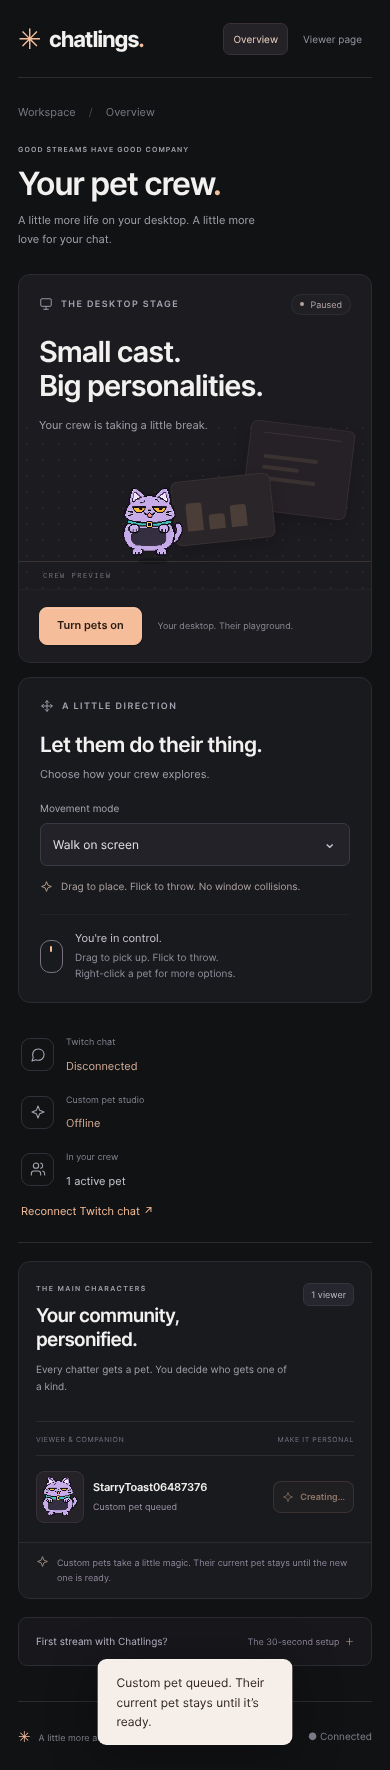
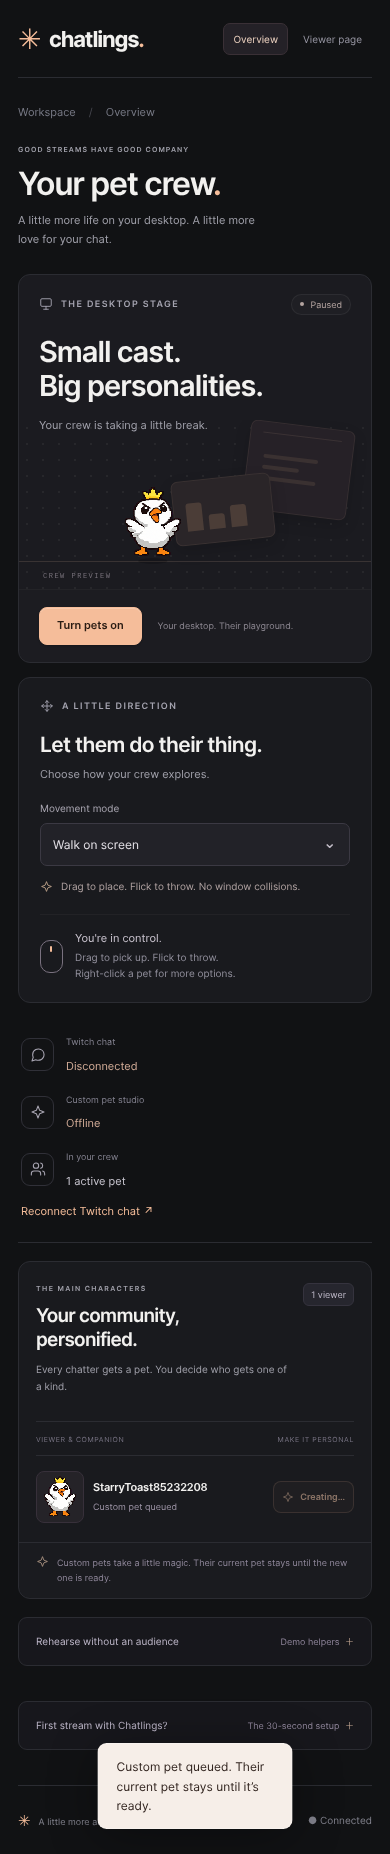
Add labeled simulated viewers and streamer rehearsal controls

diff --git a/public/app.js b/public/app.js
@@ -16,7 +16,7 @@ function drawScene(canvas,t,hero=false){
  if(!canvas)return;const w=canvas.clientWidth,h=canvas.clientHeight;if(!w||!h)return;
  if(canvas.width!==w||canvas.height!==h){canvas.width=w;canvas.height=h;}
  const c=canvas.getContext('2d');c.clearRect(0,0,w,h);c.imageSmoothingEnabled=false;
- const crew=hero?[]:world.players.filter(p=>!p.simulated&&(!p.id.startsWith('demo-')||meta.demo)).slice(0,5);
+ const crew=hero?[]:world.players.filter(p=>!p.id.startsWith('demo-')||meta.demo).slice(0,5);
  const assets=crew.length?crew.map(previewAsset):['/pets/blob-ross.png','/pets/toast-panic.png','/pets/buffer-cat.png'];
  const reduced=matchMedia('(prefers-reduced-motion: reduce)').matches;
  for(let i=0;i<assets.length;i++){
@@ -38,12 +38,12 @@ function draw(t){
 }
 function renderRoster(){const players=world.players.filter(p=>!p.simulated&&!p.id.startsWith('demo-'));
  // Demo mode may be used only on an isolated local development server.
- const visible=meta.demo?world.players.filter(p=>!p.simulated):players;
- $('viewerCount').textContent=visible.length+' viewer'+(visible.length===1?'':'s');$('activeCount').textContent=visible.length+' active pet'+(visible.length===1?'':'s');
+ const visible=world.players.filter(p=>!p.id.startsWith('demo-')||meta.demo);const simulated=visible.filter(p=>p.simulated).length;const real=visible.length-simulated;
+ $('viewerCount').textContent=real+' viewer'+(real===1?'':'s')+(simulated?' · '+simulated+' demo':'');$('demoStatus').textContent=simulated?simulated+' simulated viewers. Real viewers stay untouched.':'Demo pets are labeled SIM on your desktop.';$('demoMoments').disabled=$('clearDemoPets').disabled=!simulated;$('activeCount').textContent=visible.length+' active pet'+(visible.length===1?'':'s');
  for(const [id,row]of rows)if(!visible.some(p=>p.id===id)){row.el.remove();rows.delete(id);}
  if(!visible.length){if(!$('roster').querySelector('.empty')){const p=document.createElement('p');p.className='empty';p.textContent='Your first chatter is your first pet. Ask your community to say hello in Twitch chat.';$('roster').append(p);}}else $('roster').querySelector('.empty')?.remove();
  const liveAssets=new Set(visible.length?[]:['/pets/blob-ross.png','/pets/toast-panic.png','/pets/buffer-cat.png']);
- for(const p of visible){let row=rows.get(p.id);if(!row){const el=document.createElement('div');el.className='viewer-row';const person=document.createElement('div');person.className='person';const canvas=document.createElement('canvas');canvas.width=48;canvas.height=52;canvas.setAttribute('aria-hidden','true');const info=document.createElement('div'),name=document.createElement('strong'),detail=document.createElement('small'),button=document.createElement('button');info.append(name,detail);person.append(canvas,info);button.className='button';button.onclick=()=>commission(p.id);el.append(person,button);$('roster').append(el);row={el,canvas,name,detail,button};rows.set(p.id,row);}row.name.textContent=p.name;const jobs=world.skins.filter(j=>j.userId===p.id),latest=jobs.at(-1),ready=jobs.filter(j=>j.status==='ready').at(-1),waiting=['queued','generating'].includes(latest?.status);row.asset=ready?.asset||'/pets/'+ids[p.appearance.seed%5]+'.png';liveAssets.add(row.asset);row.detail.textContent=latest?.status==='queued'?'Custom pet queued':latest?.status==='generating'?'Codex is creating this pet…':latest?.status==='failed'?'Creation failed · current pet kept':ready?'Custom pet':names[p.appearance.seed%5]+' · default';row.button.textContent=waiting?'Creating…':ready?'New custom pet':'Make custom pet';row.button.disabled=waiting||pending.has(p.id);}
+ for(const p of visible){let row=rows.get(p.id);if(!row){const el=document.createElement('div');el.className='viewer-row';const person=document.createElement('div');person.className='person';const canvas=document.createElement('canvas');canvas.width=48;canvas.height=52;canvas.setAttribute('aria-hidden','true');const info=document.createElement('div'),name=document.createElement('strong'),detail=document.createElement('small'),button=document.createElement('button');info.append(name,detail);person.append(canvas,info);button.className='button';button.onclick=()=>commission(p.id);el.append(person,button);$('roster').append(el);row={el,canvas,name,detail,button};rows.set(p.id,row);}row.name.textContent=p.name+(p.simulated?' · DEMO':'');const jobs=world.skins.filter(j=>j.userId===p.id),latest=jobs.at(-1),ready=jobs.filter(j=>j.status==='ready').at(-1),waiting=['queued','generating'].includes(latest?.status);row.asset=ready?.asset||'/pets/'+ids[p.appearance.seed%5]+'.png';liveAssets.add(row.asset);row.detail.textContent=latest?.status==='queued'?'Custom pet queued':latest?.status==='generating'?'Codex is creating this pet…':latest?.status==='failed'?'Creation failed · current pet kept':ready?'Custom pet':names[p.appearance.seed%5]+' · default';row.button.textContent=waiting?'Creating…':ready?'New custom pet':'Make custom pet';row.button.disabled=p.simulated||waiting||pending.has(p.id);if(p.simulated){row.detail.textContent=names[p.appearance.seed%5]+' · simulated viewer';row.button.textContent='Demo pet';}}
  for(const url of images.keys())if(!liveAssets.has(url))images.delete(url);
 }
 async function commission(id){pending.add(id);renderRoster();try{await api('skins/host',{action:'assign',userId:id});notify('Custom pet queued. Their current pet stays until it’s ready.');await pollWorld();}catch(e){notify(e.message);}finally{pending.delete(id);renderRoster();}}
@@ -52,6 +52,7 @@ async function refreshIdentity(){if(checkingIdentity)return;checkingIdentity=tru
 async function refreshStatus(){if(!admin||!meta.host)return;try{status=await api('admin/status');if(document.activeElement!==$('movementMode'))$('movementMode').value=status.desktop.mode||'walk';$('movementHelp').textContent=status.desktop.mode==='physics'?'Gravity, throws and landings on visible window tops.':'Drag to place. Flick to throw. No window collisions.';$('desktopStatus').textContent=status.desktop.running?'Pets are live on your desktop.':'Your crew is taking a little break.';$('desktopBadge').textContent=status.desktop.running?'Live on desktop':'Paused';$('desktopBadge').classList.toggle('offline',!status.desktop.running);$('desktopToggle').textContent=status.desktop.running?'Turn pets off':'Turn pets on';$('desktopToggle').disabled=desktopBusy;$('chatStatus').textContent=status.chat==='connected'?'Connected':'Disconnected';$('chatStatus').classList.toggle('offline',status.chat!=='connected');$('hatchStatus').textContent=status.hatchery.running?(status.hatchery.phase==='generating'?'Creating a pet…':'Ready for commissions'):'Offline';$('hatchStatus').classList.toggle('offline',!status.hatchery.running);$('reconnectChat').hidden=(status.chat==='connected'&&status.chatRefreshReady)||location.hostname!=='localhost';$('reconnectChat').textContent=status.chat==='connected'&&!status.chatRefreshReady?'Enable automatic chat refresh ↗':'Reconnect Twitch chat ↗';}catch(e){$('desktopStatus').textContent=e.message;}}
 $('movementMode').onchange=async()=>{const mode=$('movementMode').value;$('movementMode').disabled=true;try{await api('admin/desktop-settings',{mode});notify(mode==='walk'?'Walk mode on. Drag pets wherever you like.':'Window physics on.');}catch(e){notify(e.message);}finally{$('movementMode').disabled=false;await refreshStatus();}};
 $('desktopToggle').onclick=async()=>{desktopBusy=true;$('desktopToggle').disabled=true;try{await api('admin/desktop',{enabled:!status.desktop?.running});notify(status.desktop?.running?'Desktop pets stopped.':'Starting desktop pets…');}catch(e){notify(e.message);}finally{desktopBusy=false;await refreshStatus();}};
+for(const [id,action]of [['addDemoPets','bots'],['demoMoments','bot-moments'],['clearDemoPets','clear-bots']])$(id).onclick=async()=>{const button=$(id);button.disabled=true;try{await api('host',{action});await pollWorld();notify(action==='bots'?'Five simulated viewers joined.':action==='clear-bots'?'Demo pets removed. Real viewers kept.':'Demo bubbles and reactions playing.');}catch(e){notify(e.message);}finally{button.disabled=false;renderRoster();}};
 async function pollWorld(){try{world=await api('state');$('connection').textContent='● Connected';if(admin&&meta.host)renderRoster();}catch{$('connection').textContent='Reconnecting…';}}
 async function init(){try{meta=await api('me');$('workspaceName').textContent=meta.channel||meta.user?.name||'Your channel';$('channelInitial').textContent=(meta.channel||meta.user?.name||'C').slice(0,1);if(meta.channel){$('chatLink').href='https://www.twitch.tv/'+encodeURIComponent(meta.channel)+'/chat';$('chatLink').target='_blank';$('chatLink').rel='noopener';$('chatLink').textContent='Join '+meta.channel+'’s chat ↗';}else $('chatLink').textContent='See chat commands';if(admin){$('adminGate').hidden=!!meta.host;$('adminControls').hidden=!meta.host;if(meta.user&&!meta.host)$('gateMessage').textContent='You’re signed in as '+meta.user.name+'. Switch to the broadcaster’s Twitch account to manage pets.';await refreshStatus();}await pollWorld();}catch(e){notify(e.message);}}
 await init();setInterval(pollWorld,1200);setInterval(refreshStatus,2500);setInterval(refreshIdentity,10000);requestAnimationFrame(draw);

diff --git a/public/style.css b/public/style.css
@@ -5,3 +5,5 @@ body[data-page=admin] .shell{max-width:none;margin:0 0 0 216px;padding:36px 42px
 @media(max-width:820px){body[data-page=admin] .shell{margin:0;padding:0 24px}body[data-page=admin] header{position:static;width:auto;height:78px;padding:0;flex-direction:row;align-items:center;justify-content:space-between;background:none;border-right:0;border-bottom:1px solid var(--border);margin-bottom:27px}body[data-page=admin] header .brand{padding:0}body[data-page=admin] .workspace-label,body[data-page=admin] .sidebar-note,body[data-page=admin] .workspace-account{display:none}body[data-page=admin] .workspace-nav{flex-direction:row}body[data-page=admin] .workspace-nav a{font-size:10px;padding:9px}body[data-page=admin] .workspace-nav a .icon{display:none}body[data-page=admin] .workspace-nav a:nth-child(2){display:none}.breadcrumb{margin-bottom:25px}.admin-heading h1{font-size:34px}.admin-heading .eyebrow{font-size:8px}.hero{grid-template-columns:1fr;gap:40px;text-align:center;padding:40px 0 60px}.hero h1{font-size:66px}.hero-copy>p{font-size:15px}.hero-scene{width:min(500px,95%);margin:auto}.hero-scene .scene-caption{text-align:left}.commands{gap:30px;grid-template-columns:1fr 1.4fr}.commands h2{font-size:26px}}
 @media(max-width:600px){.shell{padding:0 22px}header{height:78px}.brand strong{font-size:23px}.admin-link{font-size:10px;padding:9px 11px;min-height:35px}.admin-link .icon{width:12px}.hero{padding-top:34px;gap:35px}.hero h1{font-size:54px;letter-spacing:-2.7px}.hero-copy>p{font-size:14px}.hero .eyebrow{font-size:8px;letter-spacing:1.2px}.hero-scene canvas{height:240px}.scene-caption{top:65px;left:24px}.scene-caption strong{font-size:29px}.scene-top{font-size:8px;height:35px}.scene-bottom{font-size:8px;height:35px;padding:0 14px}.scene-bottom .status-dot{margin-right:6px}.section-heading{align-items:start;gap:12px}.section-heading h2{font-size:21px}.section-note{font-size:10px;max-width:100px;text-align:right;line-height:1.7}.pet-gallery{padding:28px 0 22px}.gallery-note{font-size:10px;line-height:1.8}.commands{grid-template-columns:1fr;gap:26px;padding:36px 0 40px}.commands h2{font-size:29px}.command-grid{gap:20px 14px}.command-grid span{font-size:10px;line-height:1.8}.command-grid code{font-size:10px;padding:4px 5px}.footer-credit{display:none}footer{font-size:9px;padding-bottom:24px}body[data-page=admin] .shell{padding:0 18px}.admin-heading{align-items:start;margin-bottom:25px}.admin-heading h1{font-size:32px;letter-spacing:-1.3px}.admin-heading .eyebrow{font-size:7px;letter-spacing:1.1px}.admin-heading p{font-size:11px;max-width:240px}.admin-heading .viewer-link{display:none}.control-grid{grid-template-columns:1fr}.card-topline{padding:19px 20px 0}.stage-copy{padding:20px 20px 0}.stage-copy h2{font-size:29px}.desktop-scene{height:169px}.mini-one{right:20px;top:5px;width:105px}.mini-two{right:98px}.stage-actions{padding:17px 20px}.stage-actions>span{display:block;font-size:9px}.movement-card{padding:21px}.movement-card h2{font-size:21px;margin-top:19px}.movement-card>label{margin-top:19px}.movement-description{min-height:0;margin-bottom:19px}.gesture-hint{padding-top:16px}.health{grid-template-columns:1fr;gap:19px;padding:24px 3px}.health-item{gap:12px}.health-item div>span{font-size:11px}.health-item small{font-size:9px}.roster-card{padding:21px 17px 0}.roster-card h2{font-size:19px;max-width:210px;line-height:1.3}.roster-card .section-heading{gap:9px}.roster-card .section-heading p{font-size:10px}.roster-card .eyebrow{font-size:7px}.count{font-size:9px;padding:5px 7px}.roster-labels{font-size:7px;letter-spacing:.6px}.viewer-row{gap:8px;padding:15px 0}.person{gap:9px}.person canvas{width:48px;height:52px;border-radius:8px;padding:3px}.viewer-row strong{font-size:11px}.viewer-row small{font-size:9px}.viewer-row .button{font-size:9px;padding:8px;min-height:32px;gap:5px}.viewer-row .button{padding-left:26px;background-position:8px center;background-size:12px}.roster-footnote{margin-left:-17px;margin-right:-17px;padding:12px 17px;align-items:start}.roster-footnote p{font-size:9px}.help summary{font-size:10px;gap:8px}.help-action{font-size:9px}.help-action>span{margin-left:3px}.login{padding:30px 22px;margin:25px 0 60px}.login h2{font-size:26px}}
 @media(prefers-reduced-motion:reduce){html{scroll-behavior:auto}*,*:before,*:after{transition:none!important;animation:none!important}}
+
+.demo-actions{display:flex;gap:8px;flex-wrap:wrap;margin:15px 0}.demo-actions .button{font-size:11px;min-height:36px}.demo-tools #demoStatus{font-size:10px;color:#ba9e89}.demo-tools p{max-width:620px}

diff --git a/public/index.html b/public/index.html
@@ -36,6 +36,7 @@
   </div>
   <section class="health" aria-label="Stream connections"><div class="health-item"><span class="health-icon"><svg class="icon"><use href="#i-chat"/></svg></span><div><small>Twitch chat</small><span id="chatStatus">Checking connection…</span></div></div><div class="health-item"><span class="health-icon"><svg class="icon"><use href="#i-spark"/></svg></span><div><small>Custom pet studio</small><span id="hatchStatus">Checking generator…</span></div></div><div class="health-item"><span class="health-icon"><svg class="icon"><use href="#i-users"/></svg></span><div><small>In your crew</small><span id="activeCount">0 active pets</span></div></div><a id="reconnectChat" href="/auth/chat" hidden>Reconnect Twitch chat ↗</a></section>
   <section id="crewPanel" class="card roster-card"><div class="section-heading"><div><span class="eyebrow">THE MAIN CHARACTERS</span><h2>Your community, personified.</h2><p>Every chatter gets a pet. You decide who gets one of a kind.</p></div><span id="viewerCount" class="count">0 viewers</span></div><div class="roster-labels"><span>VIEWER & COMPANION</span><span>MAKE IT PERSONAL</span></div><div id="roster"></div><div class="roster-footnote"><svg class="icon"><use href="#i-spark"/></svg><p>Custom pets take a little magic. Their current pet stays until the new one is ready.</p></div></section>
+  <details class="help demo-tools"><summary><span>Rehearse without an audience</span><span class="help-action">Demo helpers <span aria-hidden="true">＋</span></span></summary><div><p>Add five clearly labeled simulated viewers to test the desktop. Their bubbles and reactions are demo messages; no Twitch accounts are created.</p><div class="demo-actions"><button id="addDemoPets" class="button quiet">Add 5 demo pets</button><button id="demoMoments" class="button quiet">Play reactions</button><button id="clearDemoPets" class="button quiet">Remove demo pets</button></div><p id="demoStatus" aria-live="polite">Demo pets are labeled SIM on your desktop.</p></div></details>
   <details class="help"><summary><span>First stream with Chatlings?</span><span class="help-action">The 30-second setup <span aria-hidden="true">＋</span></span></summary><div><p><strong>1.</strong> Add display capture in OBS so your desktop pets appear on stream.</p><p><strong>2.</strong> Ask chat to say hello. Their first message brings their pet to life.</p><p><strong>3.</strong> Drag, throw, and let the chaos happen. You can also gift a custom pet with <code>!custom viewername</code>.</p></div></details>
  </div>
 </main>

diff --git a/qa/simple-site-check.py b/qa/simple-site-check.py
@@ -32,6 +32,17 @@ with sync_playwright() as p:
  page.set_viewport_size({'width':1440,'height':1000});page.evaluate('window.scrollTo(0,0)');page.wait_for_timeout(150);page.screenshot(path=str(out/'simple-admin.png'),full_page=True)
  overlay=context.new_page();overlay.on('pageerror',lambda e:errors.append(str(e)));overlay.goto(base+'/overlay');overlay.wait_for_timeout(300)
  assert overlay.evaluate("getComputedStyle(document.body).backgroundColor")=='rgba(0, 0, 0, 0)'
+ # Streamer rehearsal controls operate only on labeled simulated pets.
+ page.locator('.demo-tools summary').click()
+ page.get_by_role('button',name='Add 5 demo pets',exact=True).click()
+ page.wait_for_function("() => document.querySelector('#demoStatus').textContent.includes('5 simulated')")
+ assert page.locator('.viewer-row').filter(has_text='DEMO').count()==5
+ page.get_by_role('button',name='Play reactions',exact=True).click()
+ page.wait_for_timeout(150)
+ state=context.request.get(base+'/api/state').json();assert all(p.get('emote') and p.get('bubble') for p in state['players'] if p.get('simulated'))
+ page.get_by_role('button',name='Remove demo pets',exact=True).click()
+ page.wait_for_function("() => !document.querySelector('#demoStatus').textContent.includes('5 simulated')")
+ assert page.locator('.viewer-row').filter(has_text=user['name']).count()==1
  # Check the public role gate in a separate context, with no desktop actions.
  gate=browser.new_context();gate.route('**/api/me',lambda route:route.fulfill(json={'user':None,'host':False,'oauth':True,'demo':False}))
  g=gate.new_page();g.goto(base+'/admin');g.wait_for_selector('#adminGate:not([hidden])');assert g.locator('#adminControls').is_hidden()

diff --git a/README.md b/README.md
@@ -449,3 +449,13 @@ window perch 44 px/s. Flicks use the latest mouse samples and retain the actual
 release direction. Landings include a short settle pose and frictional slide
 before autonomous walking resumes. Window physics must be selected for window
 collisions; Walk on screen deliberately ignores windows.
+
+## Rehearse with simulated viewers
+
+In `/admin`, expand **Rehearse without an audience**. **Add 5 demo pets**
+creates five simulated companions on the actual desktop. **Play reactions**
+shows sample speech bubbles and reaction animations. **Remove demo pets**
+removes only simulated pets; real chatters stay. Repeated Add clicks do not
+duplicate the five pets. They are labeled DEMO in admin and SIM on desktop,
+never send messages to Twitch, and cannot commission paid custom generation.
+Use one real Twitch account to verify actual chat integration for your recording.
